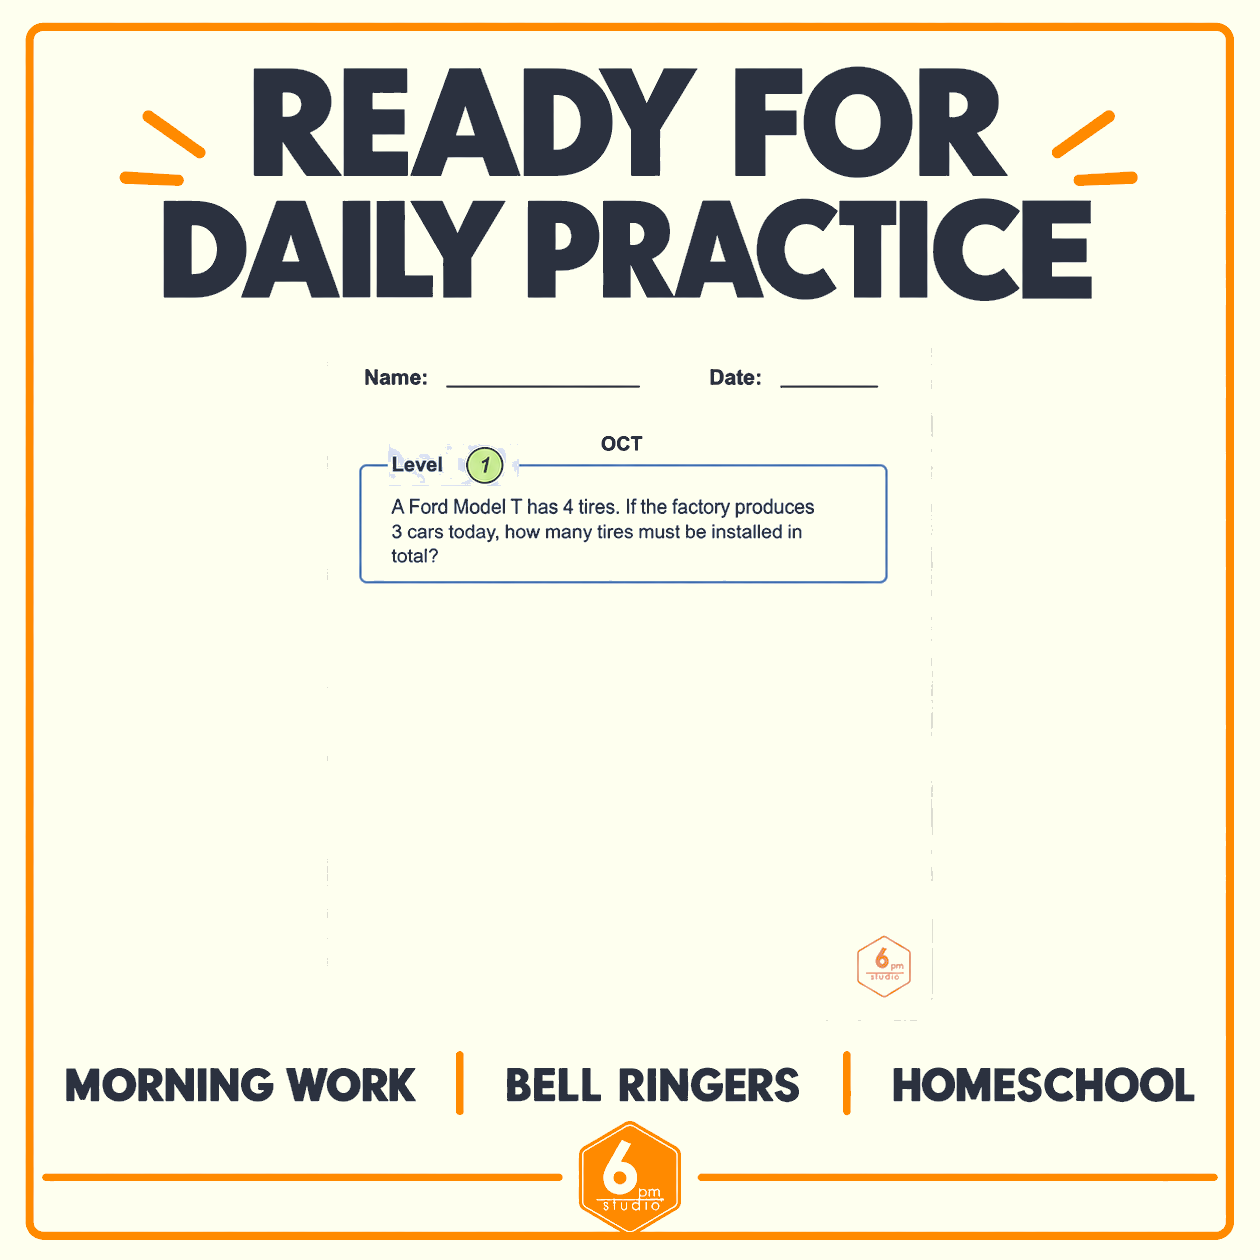
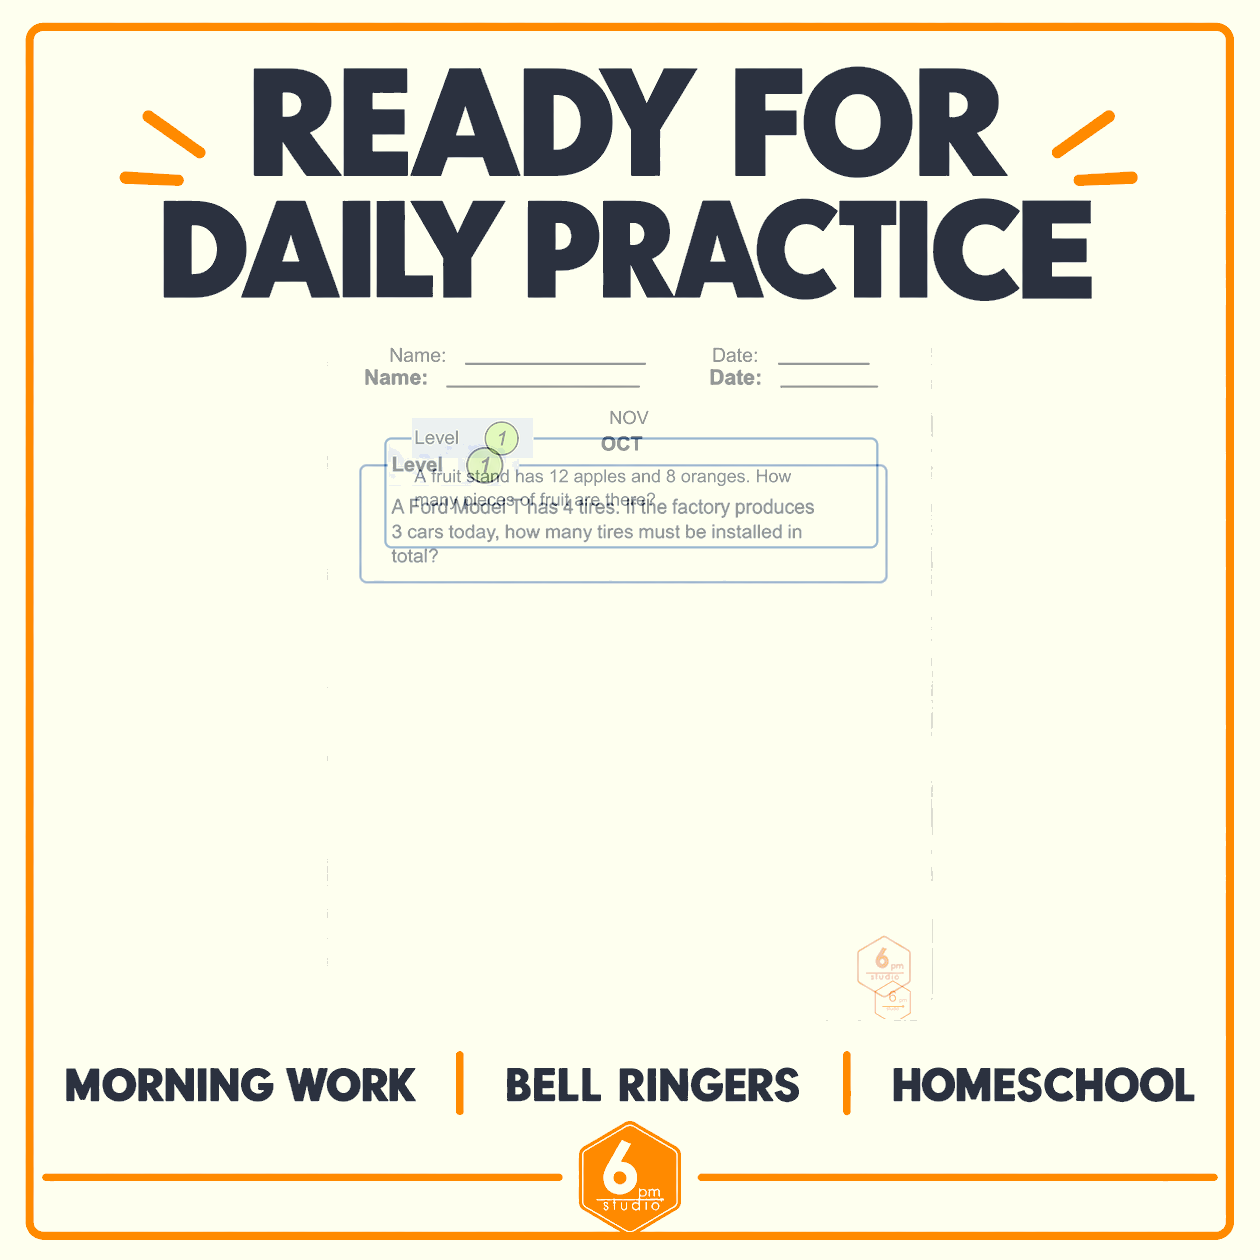
Restore October decorative rays on November thumbnail

diff --git a/scripts/generate_monthly_thumbnails.py b/scripts/generate_monthly_thumbnails.py
@@ -379,27 +379,14 @@ def compose_daily_practice(month, pages, out):
         Image.open(canonical).convert("RGB").resize((SIZE, SIZE), Image.Resampling.LANCZOS).save(out, "PNG", optimize=True)
         return
     # October is the source of truth for this thumbnail's frame, typography,
-    # footer, and logo. Start from the checked-in parity fixture so those
-    # fixed regions cannot drift while the real worksheet page changes by
-    # month. November intentionally replaces only the worksheet preview and
-    # the header accents requested by the owner.
+    # footer, logo, and decorative rays. Start from the checked-in parity
+    # fixture so those fixed regions cannot drift while the real worksheet
+    # page changes by month.
     if canonical.exists():
         canvas = Image.open(canonical).convert("RGBA").resize((SIZE, SIZE), Image.Resampling.LANCZOS)
     else:
         canvas = base_canvas()
     draw = ImageDraw.Draw(canvas)
-
-    # Replace the diagonal rays in the October fixture with the requested
-    # clean horizontal arrow brackets, while leaving the headline untouched.
-    draw.rectangle((92, 92, 218, 222), fill=BG)
-    draw.rectangle((1042, 92, 1168, 222), fill=BG)
-    arrow_width = 8
-    draw.line((122, 157, 190, 157), fill=ORANGE, width=arrow_width)
-    draw.line((190, 157, 169, 139), fill=ORANGE, width=arrow_width)
-    draw.line((190, 157, 169, 175), fill=ORANGE, width=arrow_width)
-    draw.line((1138, 157, 1070, 157), fill=ORANGE, width=arrow_width)
-    draw.line((1070, 157, 1091, 139), fill=ORANGE, width=arrow_width)
-    draw.line((1070, 157, 1091, 175), fill=ORANGE, width=arrow_width)
 
     # The October preview window is a borderless, softly shadowed 601x696
     # crop. Fit the real November PDF page into that same window without
@@ -570,7 +557,7 @@ def main():
             "cover": {"headline": manifest["product"]["month"].title(), "productTitle": "MORNING WORK MATH", "supportingText": [f"{day_count} DAILY WORD PROBLEMS"], "levelsBlock": "3 LEVELS with orange side lines", "doodle": "orange line-art pumpkin" if doodle_path is None else manifest["doodle"]["path"], "doodlePrompt": "recognizable pumpkin silhouette with five ribbed lobes, curved stem, outlined leaf, and flattened base; orange outline only; no fill or shading" if doodle_path is None else "month-specific approved transparent orange line-art doodle; fixed art box; no fill or shading"},
             "whats_included": {"headline": "WHAT’S INCLUDED", "sourceLayout": "story, level 1, level 2 / level 3, answer key", "headlineEmphasis": "three orange rays on each side", "labelStyle": "orange pills narrower than cards", "footer": "centered logo without divider lines", "parityFixture": "references /thumbnail-assets/thumbnail-2-reference.png", "failureLoop": "rerun prompt/compositor optimization until fixed-region visual QA passes"},
             "different_math": {"headline": [manifest["product"]["month"].title(), "Morning Work Math"], "supportingText": f"{day_count} Daily Word Problems · 3 Levels", "sourceLayout": "three subtly tilted worksheet cards in one row", "headlineSideLines": "short orange horizontal rules around the month", "labelStyle": "large uppercase navy labels", "parityFixture": "references /thumbnail-assets/thumbnail-3-reference.png", "failureLoop": "rerun prompt/compositor optimization until fixed-region visual QA passes"},
-            "daily_practice": {"headline": ["READY FOR", "DAILY PRACTICE"], "useCases": ["MORNING WORK", "BELL RINGERS", "HOMESCHOOL"], "headlineEmphasis": "horizontal arrow brackets on each side for the November variant", "useCaseSeparators": "vertical orange lines", "sourceLayout": "one centered borderless real worksheet preview with October-matched shadow and crop", "parityFixture": "references /thumbnail-assets/thumbnail-4-reference.png", "failureLoop": "rerun prompt/compositor optimization until fixed-region visual QA passes"},
+            "daily_practice": {"headline": ["READY FOR", "DAILY PRACTICE"], "useCases": ["MORNING WORK", "BELL RINGERS", "HOMESCHOOL"], "headlineEmphasis": "three orange rays on each side", "useCaseSeparators": "vertical orange lines", "sourceLayout": "one centered borderless real worksheet preview with October-matched shadow and crop", "parityFixture": "references /thumbnail-assets/thumbnail-4-reference.png", "failureLoop": "rerun prompt/compositor optimization until fixed-region visual QA passes"},
             "landing_page": {"headline": [manifest["product"]["month"].title(), "Morning Work Math"], "supportingText": f"{day_count} Daily Word Problems · 3 Levels", "sourceLayout": "five subtly tilted worksheet cards in one row", "labels": ["READING PASSAGE", "LEVEL 1", "LEVEL 2", "LEVEL 3", "ANSWER KEY"], "parityFixture": "references /thumbnail-assets/thumbnail-5-reference.png", "failureLoop": "rerun prompt/compositor optimization until fixed-region visual QA passes"},
         },
     }

diff --git a/scripts/validate_thumbnail4_visual_parity.py b/scripts/validate_thumbnail4_visual_parity.py
@@ -6,7 +6,7 @@ import json
 from pathlib import Path
 
 import numpy as np
-from PIL import Image, ImageChops, ImageDraw
+from PIL import Image, ImageChops
 
 SIZE = (1260, 1260)
 BG = np.array([254, 255, 239], dtype=np.uint8)
@@ -18,9 +18,8 @@ FIXED_REGIONS = {
     "use_case_row": (50, 1035, 1210, 1120),
     "footer": (35, 1135, 1225, 1225),
 }
-VARIABLE_REGIONS = {"worksheet_preview": (325, 320, 935, 1020)}
-ARROW_FIXED_REGIONS = {
-    "header_and_arrows": FIXED_REGIONS["header_and_rays"],
+NOVEMBER_FIXED_REGIONS = {
+    "header_and_rays": FIXED_REGIONS["header_and_rays"],
     "preview_shadow_top": (300, 315, 960, 323),
     "preview_shadow_left": (300, 315, 329, 1020),
     "preview_shadow_right": (930, 315, 960, 1020),
@@ -28,6 +27,7 @@ ARROW_FIXED_REGIONS = {
     "use_case_row": FIXED_REGIONS["use_case_row"],
     "footer": FIXED_REGIONS["footer"],
 }
+VARIABLE_REGIONS = {"worksheet_preview": (325, 320, 935, 1020)}
 
 
 def load(path: Path) -> Image.Image:
@@ -42,21 +42,6 @@ def normalize_palette(image: Image.Image) -> Image.Image:
     orange = (pixels[:, :, 0] > 220) & (pixels[:, :, 1] < 190) & (pixels[:, :, 2] < 100)
     pixels[ivory], pixels[navy], pixels[orange] = BG, NAVY, ORANGE
     return Image.fromarray(pixels, "RGB")
-
-
-def apply_arrow_header(image: Image.Image) -> Image.Image:
-    """Build the approved November header variant from the October frame."""
-    result = image.copy()
-    draw = ImageDraw.Draw(result)
-    draw.rectangle((92, 92, 218, 222), fill=tuple(BG.tolist()))
-    draw.rectangle((1042, 92, 1168, 222), fill=tuple(BG.tolist()))
-    draw.line((122, 157, 190, 157), fill=tuple(ORANGE.tolist()), width=8)
-    draw.line((190, 157, 169, 139), fill=tuple(ORANGE.tolist()), width=8)
-    draw.line((190, 157, 169, 175), fill=tuple(ORANGE.tolist()), width=8)
-    draw.line((1138, 157, 1070, 157), fill=tuple(ORANGE.tolist()), width=8)
-    draw.line((1070, 157, 1091, 139), fill=tuple(ORANGE.tolist()), width=8)
-    draw.line((1070, 157, 1091, 175), fill=tuple(ORANGE.tolist()), width=8)
-    return result
 
 
 def ssim(a: np.ndarray, b: np.ndarray) -> float:
@@ -83,19 +68,16 @@ def main():
     parser.add_argument("--generated", type=Path, required=True)
     parser.add_argument("--output-dir", type=Path, required=True)
     parser.add_argument("--threshold", type=float, default=0.50)
-    parser.add_argument("--header-style", choices=("rays", "arrows"), default="rays")
     args = parser.parse_args()
     reference = normalize_palette(load(args.reference))
     generated = normalize_palette(load(args.generated))
-    if args.header_style == "arrows":
-        reference = apply_arrow_header(reference)
     args.output_dir.mkdir(parents=True, exist_ok=True)
     ImageChops.difference(reference, generated).save(args.output_dir / "thumbnail-4-pixel-diff.png")
     Image.blend(reference, generated, 0.5).save(args.output_dir / "thumbnail-4-overlay.png")
     side = Image.new("RGB", (2520, 1260), "white")
     side.paste(reference, (0, 0)); side.paste(generated, (1260, 0))
     side.save(args.output_dir / "thumbnail-4-side-by-side.png")
-    fixed_regions = ARROW_FIXED_REGIONS if args.header_style == "arrows" else FIXED_REGIONS
+    fixed_regions = NOVEMBER_FIXED_REGIONS if args.generated.name.startswith("november-") else FIXED_REGIONS
     fixed = {name: compare(reference, generated, box) for name, box in fixed_regions.items()}
     variable = {name: compare(reference, generated, box) for name, box in VARIABLE_REGIONS.items()}
     minimum = min(metric["ssim"] for metric in fixed.values())
@@ -105,7 +87,6 @@ def main():
               "visualAcceptance": {"fixedRegionMinSsim": minimum,
                                     "fixedRegionThreshold": args.threshold,
                                     "passed": minimum >= args.threshold},
-              "headerStyle": args.header_style,
               "artifacts": ["thumbnail-4-side-by-side.png", "thumbnail-4-overlay.png", "thumbnail-4-pixel-diff.png"],
               "visualReview": "human inspection required; fixed-region and variable-preview metrics are recorded"}
     (args.output_dir / "thumbnail-4-visual-qa.json").write_text(json.dumps(report, indent=2) + "\n")
